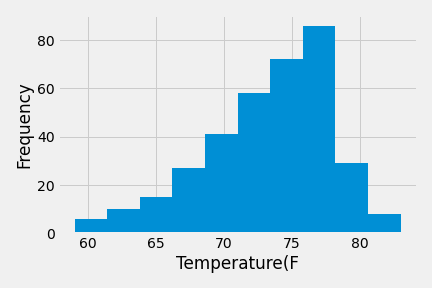
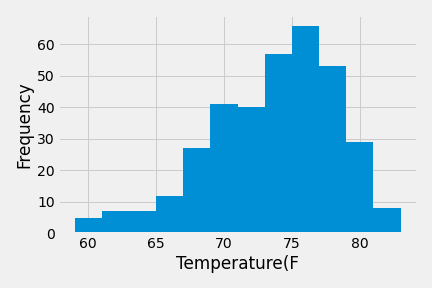
Added bins to histogram/updated readme

Changed region(s): [[0.0903, 0.0938, 0.963, 0.75], [0.1806, 0.75, 0.2407, 0.7812]]

diff --git a/README.md b/README.md
@@ -1,30 +1,12 @@
 # SQLAlchemy Homework - Surfs Up!
 
-### Before You Begin
-
-1. Create a new repository for this project called `sqlalchemy-challenge`. **Do not add this homework to an existing repository**.
-
-2. Clone the new repository to your computer.
-
-3. Add your Jupyter notebook and `app.py` to this folder. These will be the main scripts to run for analysis.
-
-4. Push the above changes to GitHub or GitLab.
-
-![surfs-up.png](Images/surfs-up.png)
-
 Congratulations! You've decided to treat yourself to a long holiday vacation in Honolulu, Hawaii! To help with your trip planning, you need to do some climate analysis on the area. The following outlines what you need to do.
 
 ## Step 1 - Climate Analysis and Exploration
 
 To begin, use Python and SQLAlchemy to do basic climate analysis and data exploration of your climate database. All of the following analysis should be completed using SQLAlchemy ORM queries, Pandas, and Matplotlib.
 
-* Use the provided [starter notebook](climate_starter.ipynb) and [hawaii.sqlite](Resources/hawaii.sqlite) files to complete your climate analysis and data exploration.
-
 * Choose a start date and end date for your trip. Make sure that your vacation range is approximately 3-15 days total.
-
-* Use SQLAlchemy `create_engine` to connect to your sqlite database.
-
-* Use SQLAlchemy `automap_base()` to reflect your tables into classes and save a reference to those classes called `Station` and `Measurement`.
 
 ### Precipitation Analysis
 
@@ -38,8 +20,6 @@ To begin, use Python and SQLAlchemy to do basic climate analysis and data explor
 
 * Plot the results using the DataFrame `plot` method.
 
-  ![precipitation](Images/precipitation.png)
-
 * Use Pandas to print the summary statistics for the precipitation data.
 
 ### Station Analysis
@@ -52,23 +32,17 @@ To begin, use Python and SQLAlchemy to do basic climate analysis and data explor
 
   * Which station has the highest number of observations?
 
-  * Hint: You will need to use a function such as `func.min`, `func.max`, `func.avg`, and `func.count` in your queries.
-
 * Design a query to retrieve the last 12 months of temperature observation data (TOBS).
 
   * Filter by the station with the highest number of observations.
 
   * Plot the results as a histogram with `bins=12`.
 
-    ![station-histogram](Images/station-histogram.png)
-
 - - -
 
 ## Step 2 - Climate App
 
 Now that you have completed your initial analysis, design a Flask API based on the queries that you have just developed.
-
-* Use Flask to create your routes.
 
 ### Routes
 
@@ -101,29 +75,13 @@ Now that you have completed your initial analysis, design a Flask API based on t
 
   * When given the start and the end date, calculate the `TMIN`, `TAVG`, and `TMAX` for dates between the start and end date inclusive.
 
-## Hints
-
-* You will need to join the station and measurement tables for some of the queries.
-
-* Use Flask `jsonify` to convert your API data into a valid JSON response object.
-
 - - -
 
 ## Bonus: Other Recommended Analyses
 
 * The following are optional challenge queries. These are highly recommended to attempt, but not required for the homework.
 
-### Temperature Analysis I
-
-* Hawaii is reputed to enjoy mild weather all year. Is there a meaningful difference between the temperature in, for example, June and December?
-
-* You may either use SQLAlchemy or pandas's `read_csv()` to perform this portion.
-
-* Identify the average temperature in June at all stations across all available years in the dataset. Do the same for December temperature.
-
-* Use the t-test to determine whether the difference in the means, if any, is statistically significant. Will you use a paired t-test, or an unpaired t-test? Why?
-
-### Temperature Analysis II
+### Temperature Analysis
 
 * The starter notebook contains a function called `calc_temps` that will accept a start date and end date in the format `%Y-%m-%d`. The function will return the minimum, average, and maximum temperatures for that range of dates.
 
@@ -134,8 +92,6 @@ Now that you have completed your initial analysis, design a Flask API based on t
   * Use the average temperature as the bar height.
 
   * Use the peak-to-peak (TMAX-TMIN) value as the y error bar (YERR).
-
-    ![temperature](Images/temperature.png)
 
 ### Daily Rainfall Average
 
@@ -151,8 +107,3 @@ Now that you have completed your initial analysis, design a Flask API based on t
 
 * Use Pandas to plot an area plot (`stacked=False`) for the daily normals.
 
-  ![daily-normals](Images/daily-normals.png)
-
-### Copyright
-
-Trilogy Education Services © 2020. All Rights Reserved.
